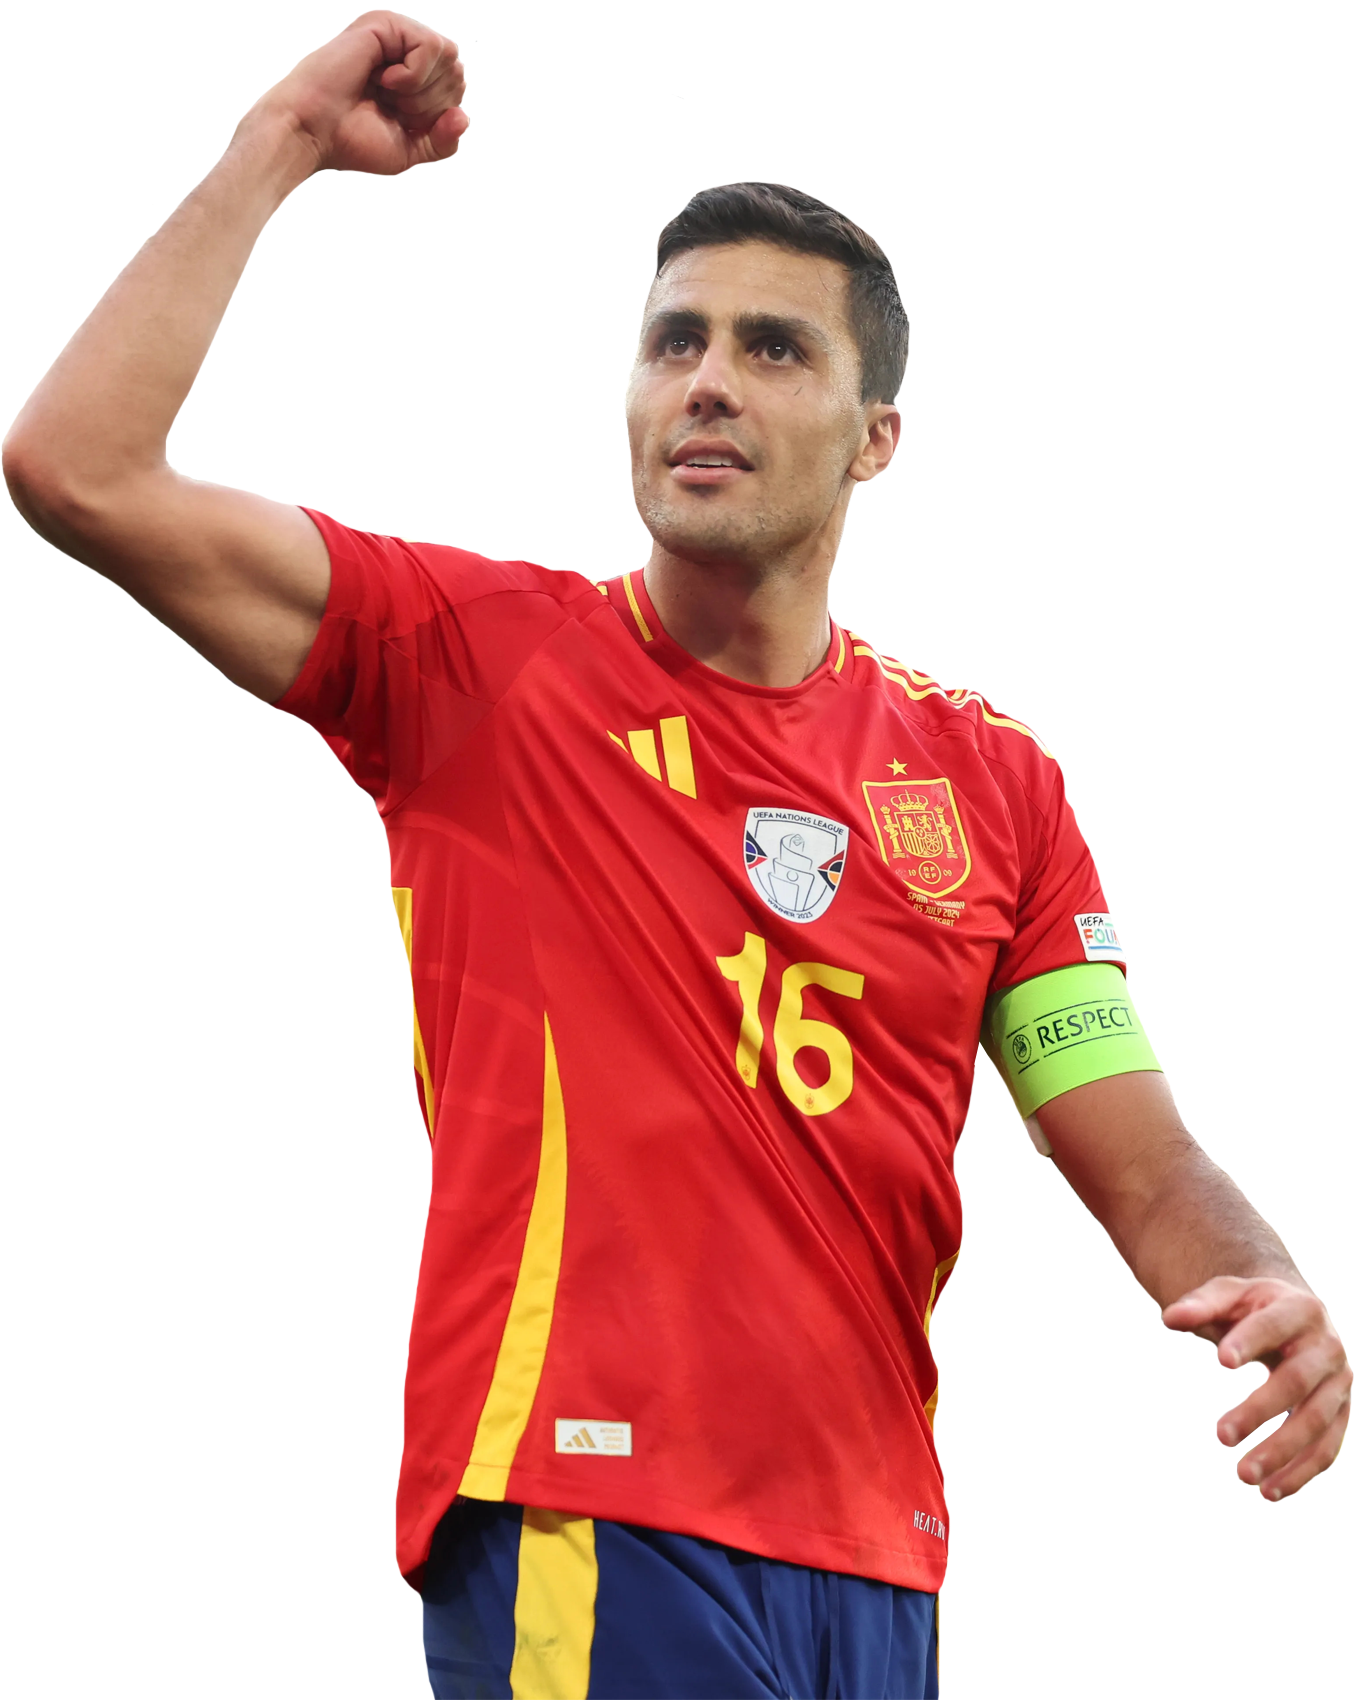
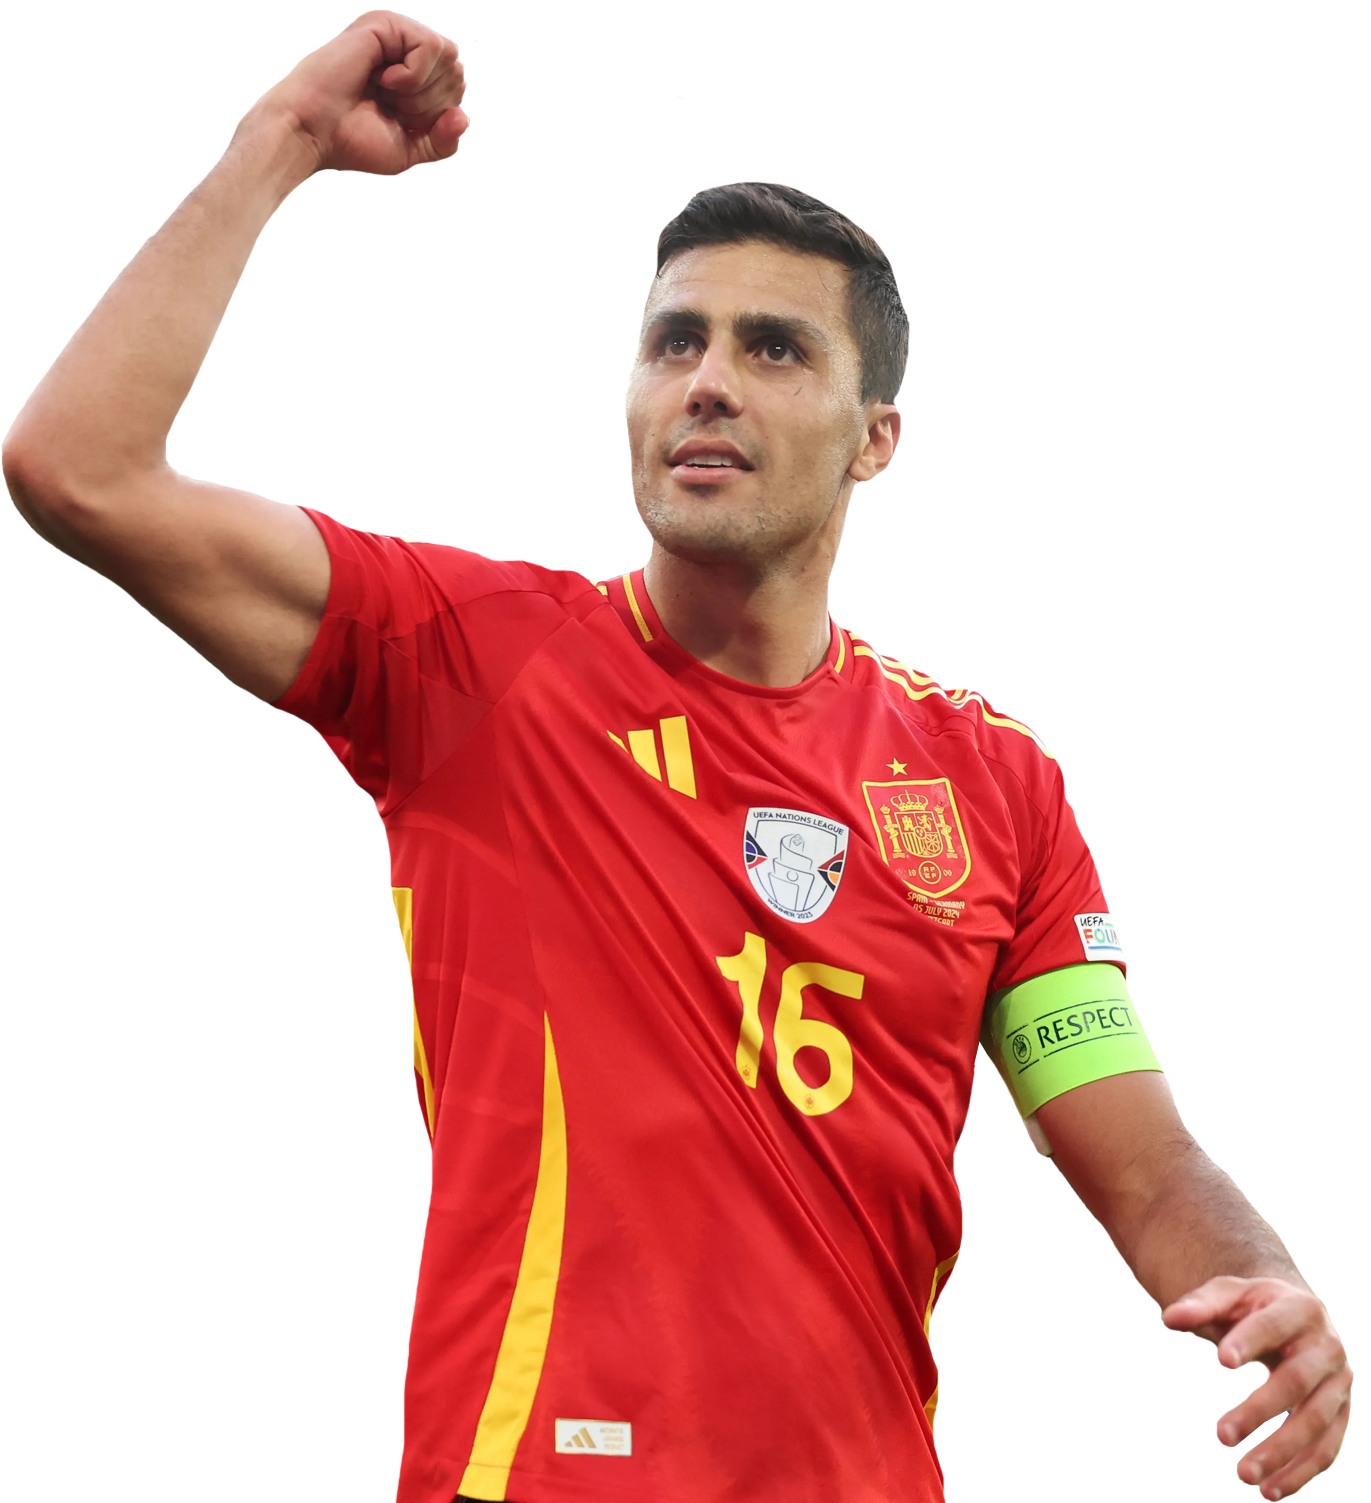
Reemontada Teutooona

diff --git a/frontend/js/ranking.js b/frontend/js/ranking.js
@@ -704,7 +704,7 @@ async function compartirRanking() {
     function renderFilas() {
         return datos.map((user, index) => {
             const pos    = index + 1;
-            const nombre = (user.nombre_publico || user.nombre || 'Usuario').substring(0, 18);
+            const nombre = (user.nombre_publico || user.nombre || 'Usuario').substring(0, 22);
             const puntos = user.puntos_totales || 0;
             const bandera = obtenerCampeon(user.campeon_elegido);
 
@@ -756,7 +756,7 @@ async function compartirRanking() {
     }
 
     function renderPodioItem(user, pos) {
-    const nombre  = (user?.nombre_publico || user?.nombre || '—').substring(0, 15).toUpperCase();
+    const nombre  = (user?.nombre_publico || user?.nombre || '—').substring(0, 8).toUpperCase();
     const puntos  = user?.puntos_totales || 0;
     const medals  = { 1: '🥇', 2: '🥈', 3: '🥉' };
     const labels  = { 1: '1ER', 2: '2DO', 3: '3ER' };
@@ -918,7 +918,7 @@ async function compartirRanking() {
             <!-- Glow detrás del jugador -->
             <div style="position:absolute;bottom:-20px;right:-10px;width:200px;height:280px;background:radial-gradient(ellipse at center, rgba(0,180,216,0.20) 0%, transparent 70%);z-index:2;"></div>
             <!-- Jugador -->
-            <img src="/img/ferran.png" alt="" style="position:absolute;bottom:0;left:200px;height:300px;object-fit:contain;z-index:4;filter:drop-shadow(0 0 20px rgba(0,180,216,0.4)) drop-shadow(2px 2px 0 rgba(0,0,0,0.9));" crossorigin="anonymous"/>
+            <img src="/img/ferran.png" alt="" style="position:absolute;bottom:0;height:300px;object-fit:contain;z-index:4;filter:drop-shadow(0 0 20px rgba(0,180,216,0.4)) drop-shadow(2px 2px 0 rgba(0,0,0,0.9));" crossorigin="anonymous"/>
             <!-- Gradiente sobre jugador -->
             <div style="position:absolute;inset:0;background:linear-gradient(105deg, rgba(6,13,24,0.98) 0%, rgba(6,13,24,0.85) 45%, rgba(6,13,24,0.0) 100%);z-index:3;border-radius:12px;overflow:hidden;"></div>
             <!-- Textos hero -->
